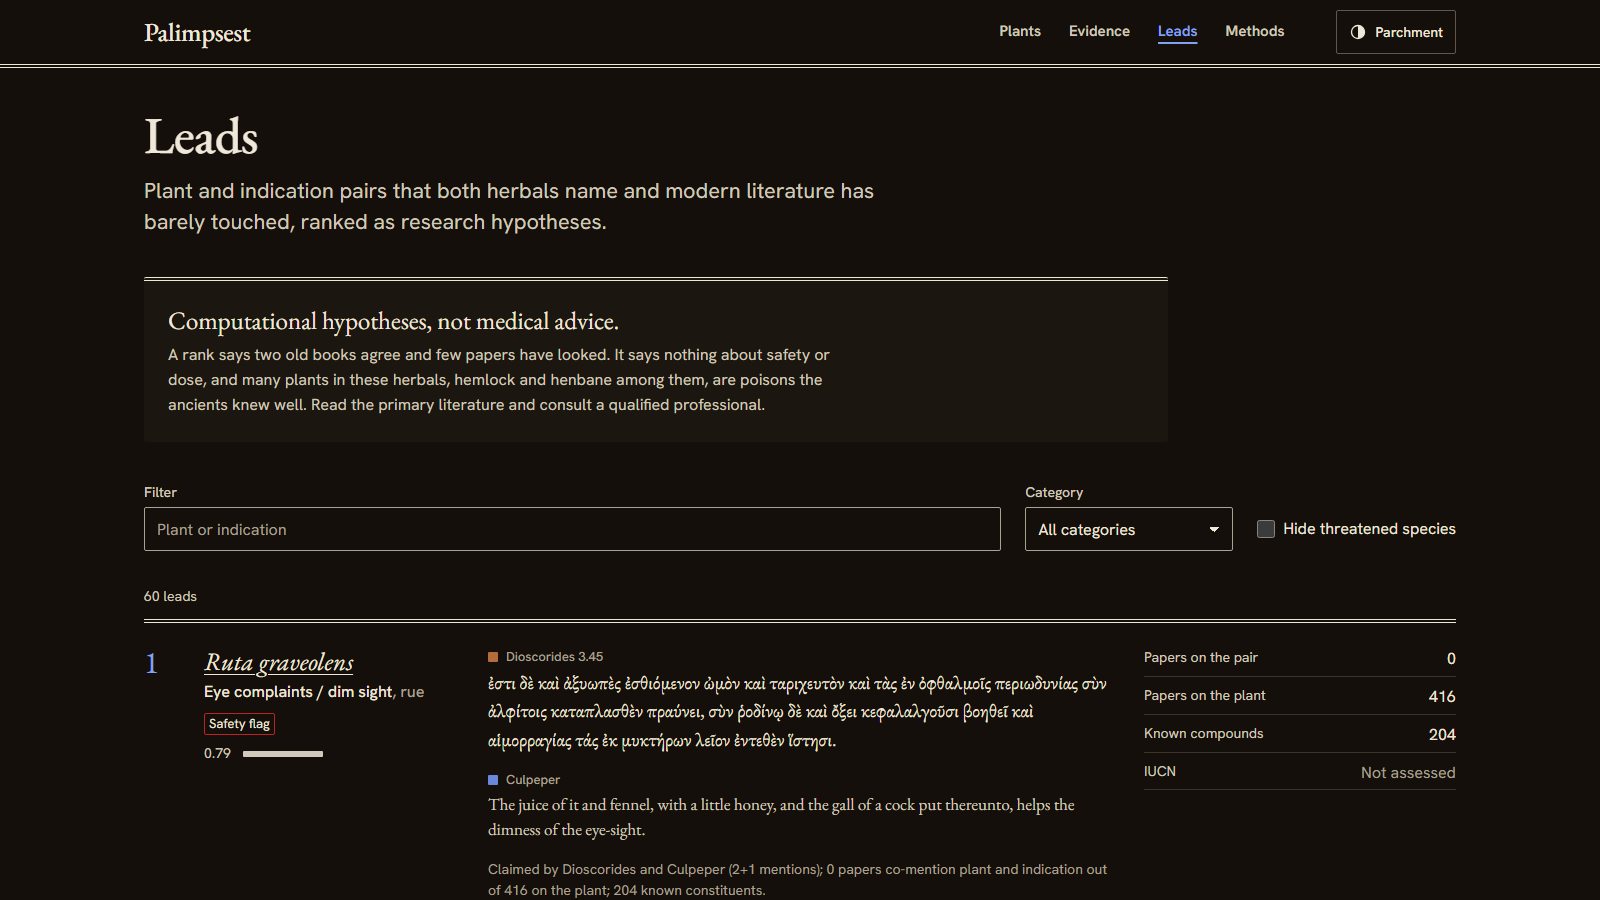
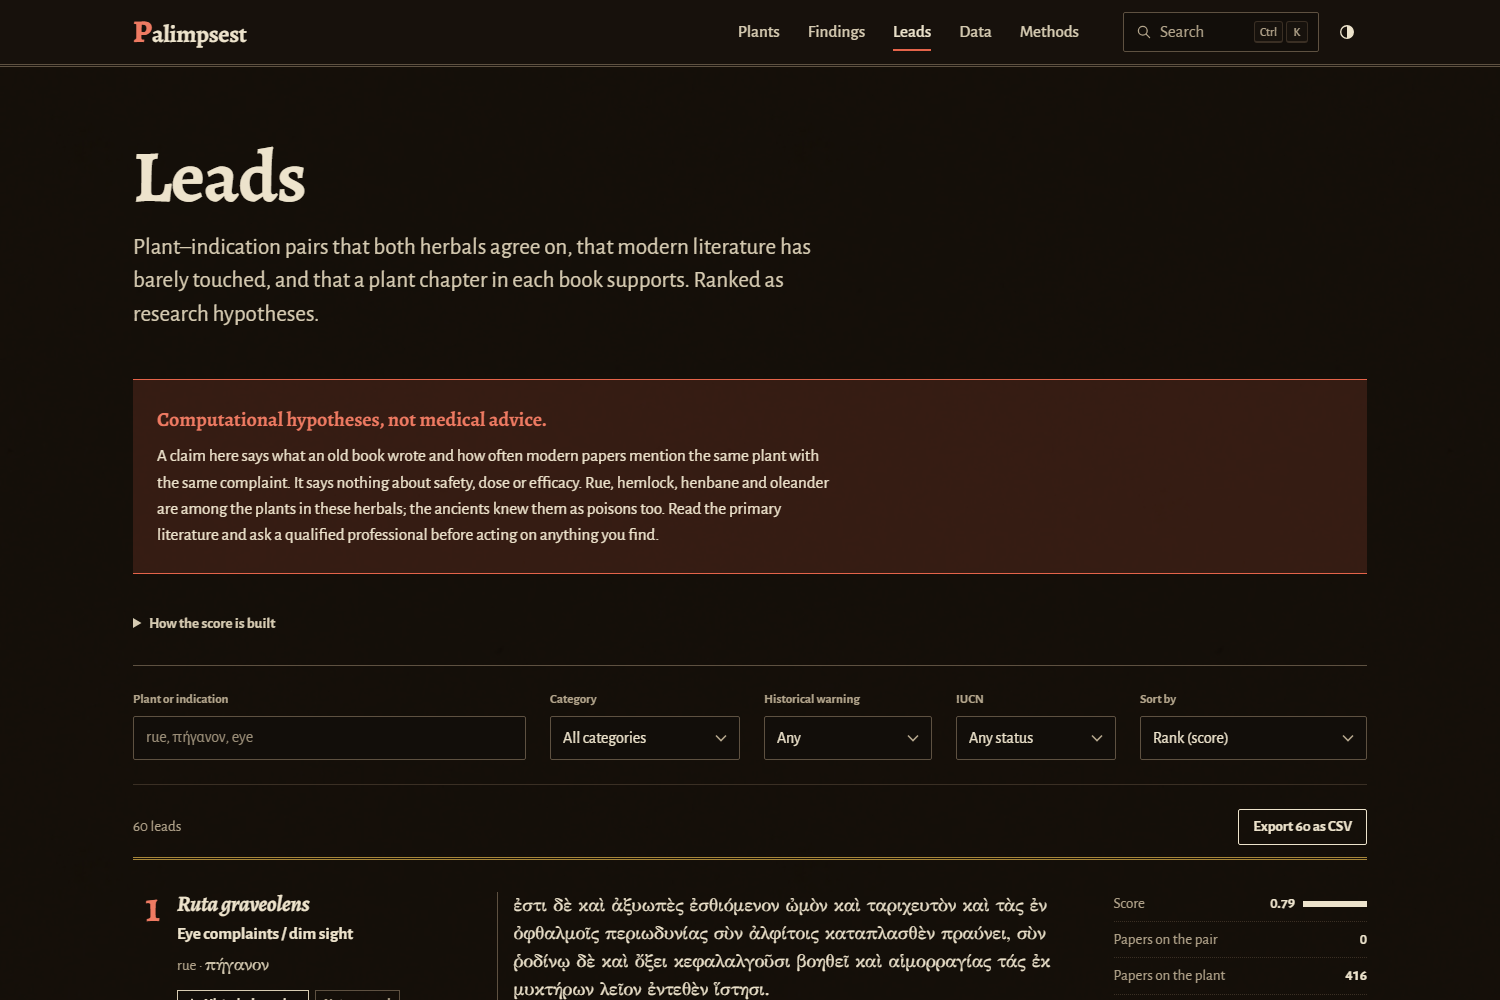
Docs: sensitivity result and explorer v2 features; new demo screenshots

diff --git a/docs/DEVPOST.md b/docs/DEVPOST.md
@@ -47,6 +47,8 @@ at least one paper, the rate ratio is 1.04 [0.61–1.76] (n.s.).
 Tradition predicts *whether* modern research looked, not *how hard* — that gap is where the leads are.
 Co-mention measures attention, not efficacy.
 
+*Sensitivity:* re-searching every plant under all its GBIF synonyms (rosemary 211 → 2,179 papers) leaves every conclusion intact (persistent vs same-plant controls 46% vs 35%; OR 2.48 [1.84–3.36]; once studied RR 1.03 n.s.); none of the 60 leads drops out.
+
 ![Evidence by group](https://raw.githubusercontent.com/KaraAliOsman/palimpsest/main/results/figures/fig2_evidence_by_group.png)
 ![Odds ratios](https://raw.githubusercontent.com/KaraAliOsman/palimpsest/main/results/figures/fig3_odds_ratios.png)
 
@@ -101,9 +103,11 @@ can use — or has it ignored?
 6. **Leads.** Persistent but under-studied plant–indication pairs are ranked by a transparent
    score combining persistence, LOTUS phytochemistry and a volume-aware evidence gap, with
    historical-safety and IUCN flags.
-7. **Knowledge graph + explorer.** All of it is exported as a provenance-anchored knowledge
-   graph (CSV/GraphML; every claim edge carries its verbatim quote and character offsets)
-   and an interactive web explorer.
+7. **Knowledge graph + explorer.** All of it is exported as a provenance-anchored knowledge graph
+   (CSV/GraphML; every claim edge carries its verbatim quote and character offsets) and a research-grade
+   web explorer: 95 public-domain images from the Vienna Dioscurides (c. 512 CE) and early printed herbals,
+   an era-layer view of every plant, accent-insensitive Greek search (Ctrl+K), cite/download for every
+   record, interactive findings, exportable leads and a data/API page.
 
 ## Technologies used
 Python (pandas, NumPy, SciPy, statsmodels, NetworkX, matplotlib), TEI/XML parsing,
@@ -142,6 +146,7 @@ living communities. AI assistance is disclosed and every AI-curated row carries 
 confidence level and justification for expert correction.
 
 ## Future development
+* Synonym-expanded literature search: done (sensitivity analysis; conclusions hold).
 * Expert review of the name concordance with ETHCSTWIN pharmacognosists and historians.
 * Add Galen, Pliny, Byzantine (e.g. Paul of Aegina) and Arabic sources to trace the full
   transmission chain, not just its endpoints.

diff --git a/README.md b/README.md
@@ -109,7 +109,9 @@ record a warning about the plant.
 6. **Leads.** Persistent but under-studied plant–indication pairs are ranked transparently,
    with phytochemistry (LOTUS), safety and conservation flags.
 7. **Knowledge graph + explorer.** Everything is exported as a provenance-anchored knowledge
-   graph (CSV/GraphML) and an interactive web explorer.
+   graph (CSV/GraphML) and a research-grade web explorer with 95 public-domain images from the
+   Vienna Dioscurides (c. 512 CE) and early printed herbals, era-layer views, accent-insensitive
+   Greek search (Ctrl+K), cite/download for every record and a data/API page.
 
 ## Quick start
 
